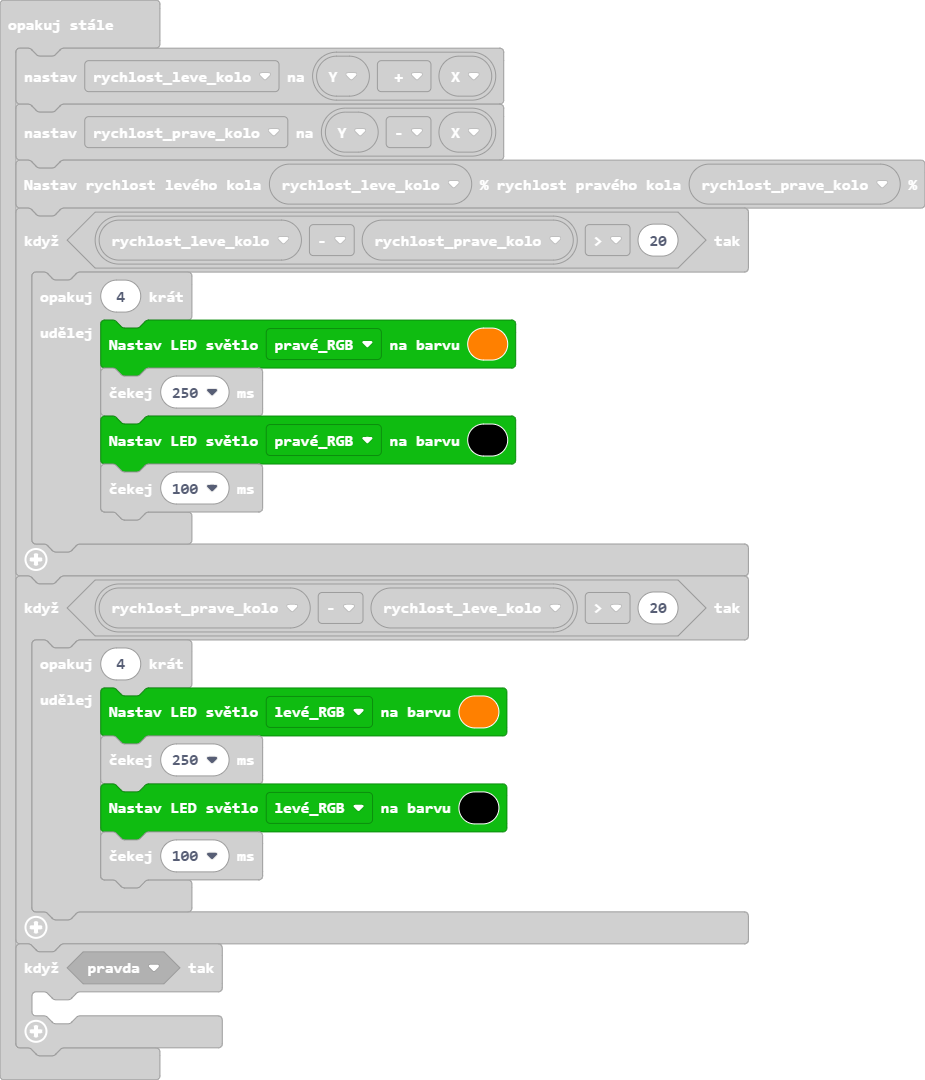
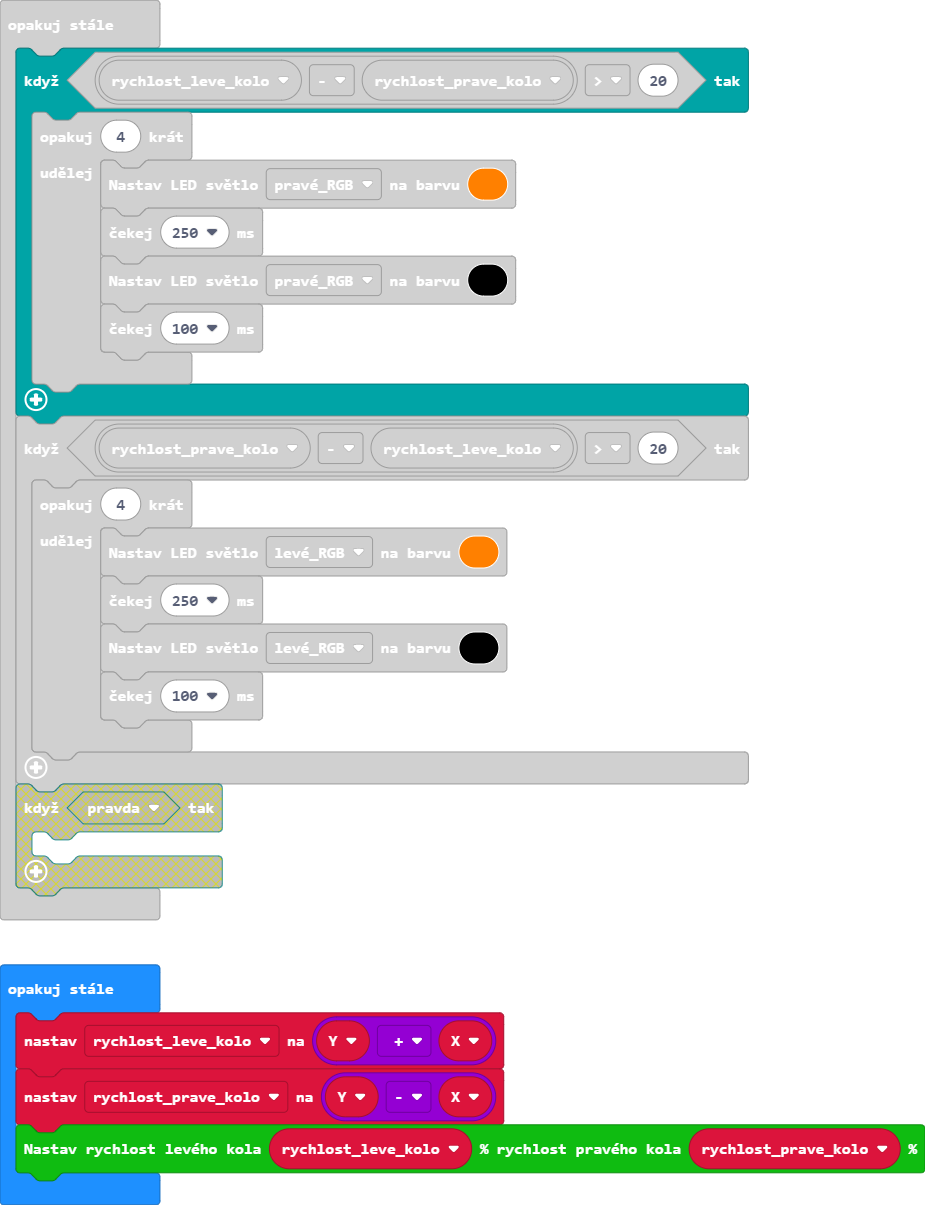
Aktualizovat main.blocks, main.ts

diff --git a/main.ts b/main.ts
@@ -19,9 +19,6 @@ basic.showLeds(`
     . # . # .
     `)
 basic.forever(function () {
-    rychlost_leve_kolo = Y + X
-    rychlost_prave_kolo = Y - X
-    cuteBot.motors(rychlost_leve_kolo, rychlost_prave_kolo)
     if (rychlost_leve_kolo - rychlost_prave_kolo > 20) {
         for (let index = 0; index < 4; index++) {
             cuteBot.colorLight(cuteBot.RGBLights.RGB_L, 0xff8000)
@@ -38,7 +35,9 @@ basic.forever(function () {
             basic.pause(100)
         }
     }
-    if (true) {
-    	
-    }
+})
+basic.forever(function () {
+    rychlost_leve_kolo = Y + X
+    rychlost_prave_kolo = Y - X
+    cuteBot.motors(rychlost_leve_kolo, rychlost_prave_kolo)
 })
